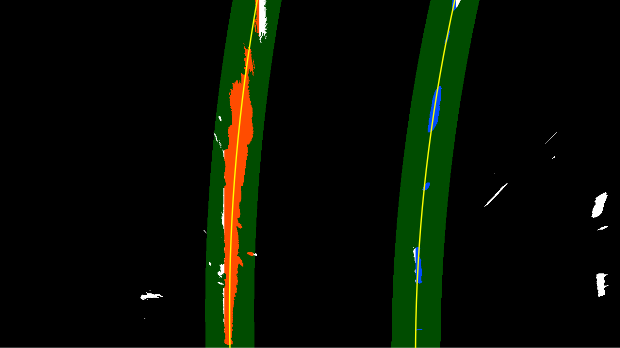
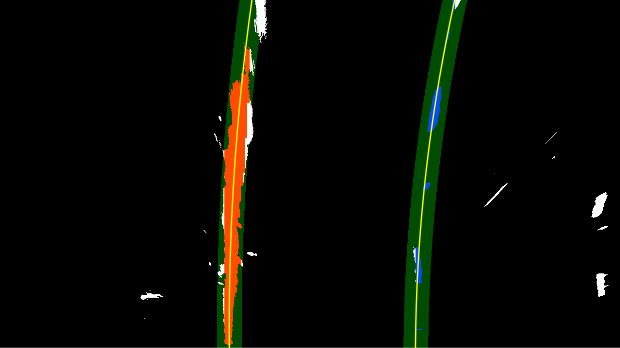
updated the figures

Changed region(s): [[0.3065, 0.0, 0.4597, 1.0], [0.6129, 0.0, 0.7968, 1.0]]

diff --git a/viz_finding_lanes.py b/viz_finding_lanes.py
@@ -32,7 +32,7 @@ masker = Masker()
 
 # define the basic parameter for searching lane
 scan_image_steps=10
-margin=50
+margin=25
 nonzerox = None
 nonzeroy = None
 
